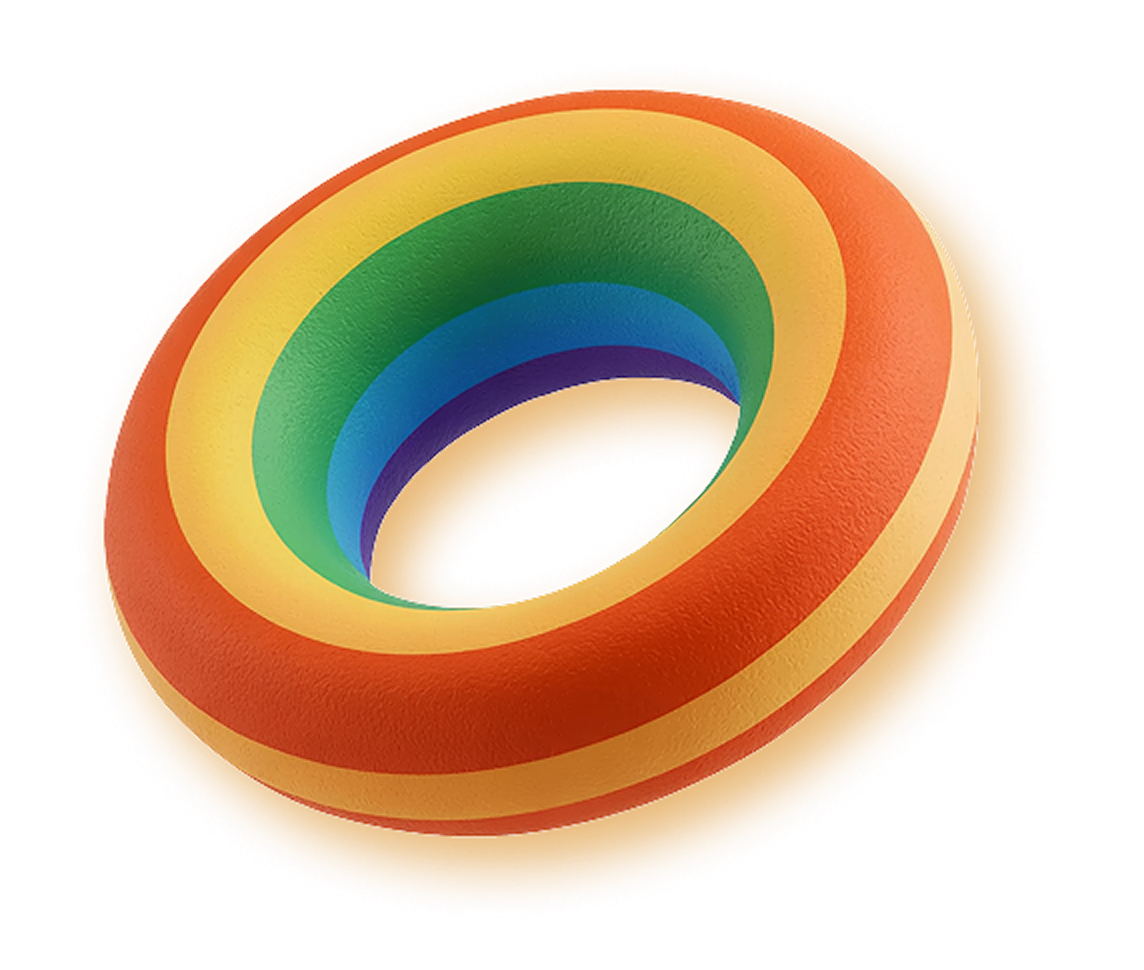
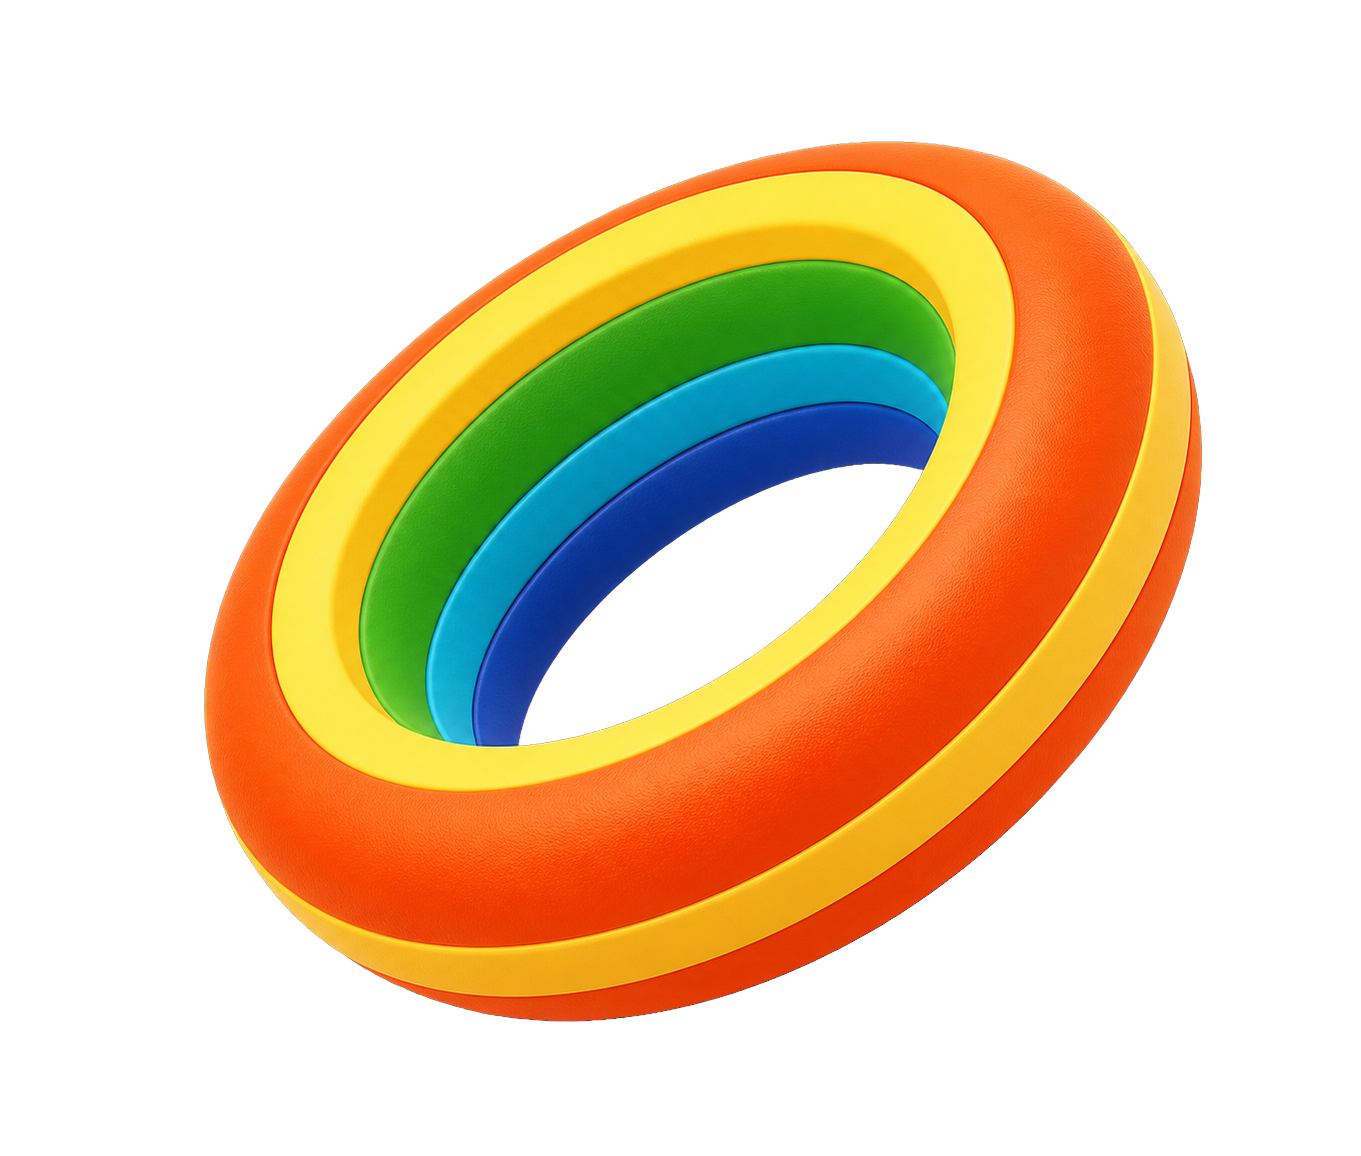
히어로 링과 CTA 하늘색 배경 적용

diff --git a/styles.css b/styles.css
@@ -1197,14 +1197,14 @@ ul {
   min-height: 280px;
   display: flex; align-items: center;
   background-image: -webkit-image-set(
-    url('assets/cta/cta-rainbow-ring-gray-wide.webp') type('image/webp'),
-    url('assets/cta/cta-rainbow-ring-gray-wide.png') type('image/png')
+    url('assets/cta/cta-rainbow-ring-sky-wide.webp') type('image/webp'),
+    url('assets/cta/cta-rainbow-ring-sky-wide.png') type('image/png')
   );
   background-image: image-set(
-    url('assets/cta/cta-rainbow-ring-gray-wide.webp') type('image/webp'),
-    url('assets/cta/cta-rainbow-ring-gray-wide.png') type('image/png')
+    url('assets/cta/cta-rainbow-ring-sky-wide.webp') type('image/webp'),
+    url('assets/cta/cta-rainbow-ring-sky-wide.png') type('image/png')
   );
-  background-color: #E5E7EB;
+  background-color: #EAF5FF;
   background-size: cover;
   background-position: center center;
   background-repeat: no-repeat;
@@ -1967,14 +1967,14 @@ ul {
 /* CTA: 로고 링 이미지는 유지하고 배경만 블루 테마에 맞춘다 */
 .theme-blue .cta {
   background-image: -webkit-image-set(
-    url('assets/cta/cta-rainbow-ring-gray-wide.webp') type('image/webp'),
-    url('assets/cta/cta-rainbow-ring-gray-wide.png') type('image/png')
+    url('assets/cta/cta-rainbow-ring-sky-wide.webp') type('image/webp'),
+    url('assets/cta/cta-rainbow-ring-sky-wide.png') type('image/png')
   );
   background-image: image-set(
-    url('assets/cta/cta-rainbow-ring-gray-wide.webp') type('image/webp'),
-    url('assets/cta/cta-rainbow-ring-gray-wide.png') type('image/png')
+    url('assets/cta/cta-rainbow-ring-sky-wide.webp') type('image/webp'),
+    url('assets/cta/cta-rainbow-ring-sky-wide.png') type('image/png')
   );
-  background-color: #E5E7EB;
+  background-color: #EAF5FF;
 }
 .theme-blue .cta::before { display: none; }
 